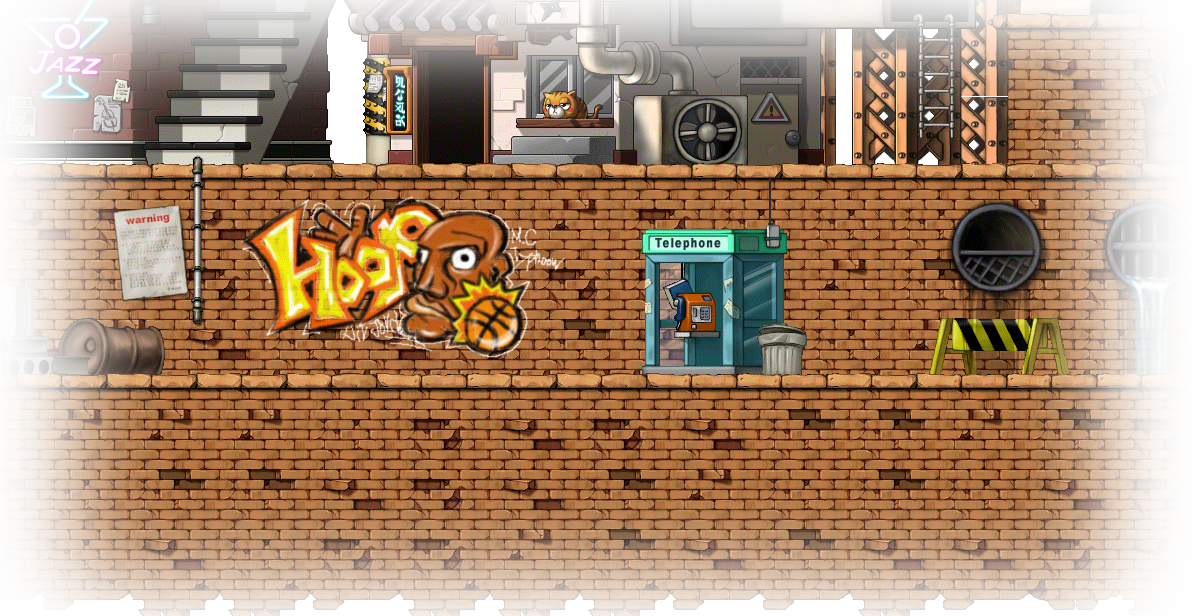
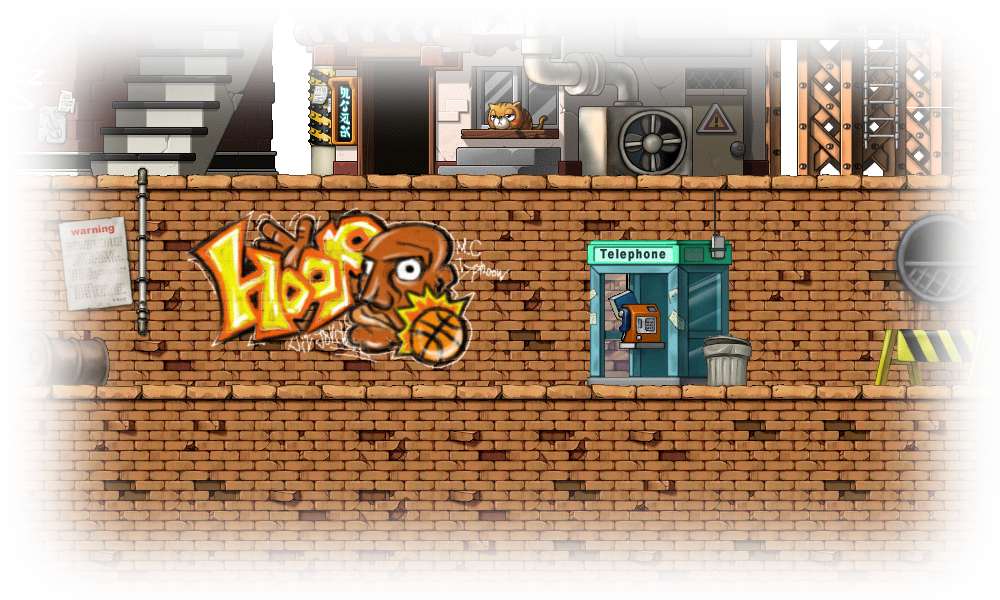
Updates

diff --git a/index.html b/index.html
@@ -2,4 +2,4 @@
                 padding: 0;
                 margin: 0;
                 overflow: hidden;
-            }</style><script defer="defer" src="main.e81c3b820a09887ff4d4.js"></script></head><body><div id="root"></div></body></html>
+            }</style><script defer="defer" src="main.00eb3bb7923c5ca71ba3.js"></script></head><body><div id="root"></div></body></html>